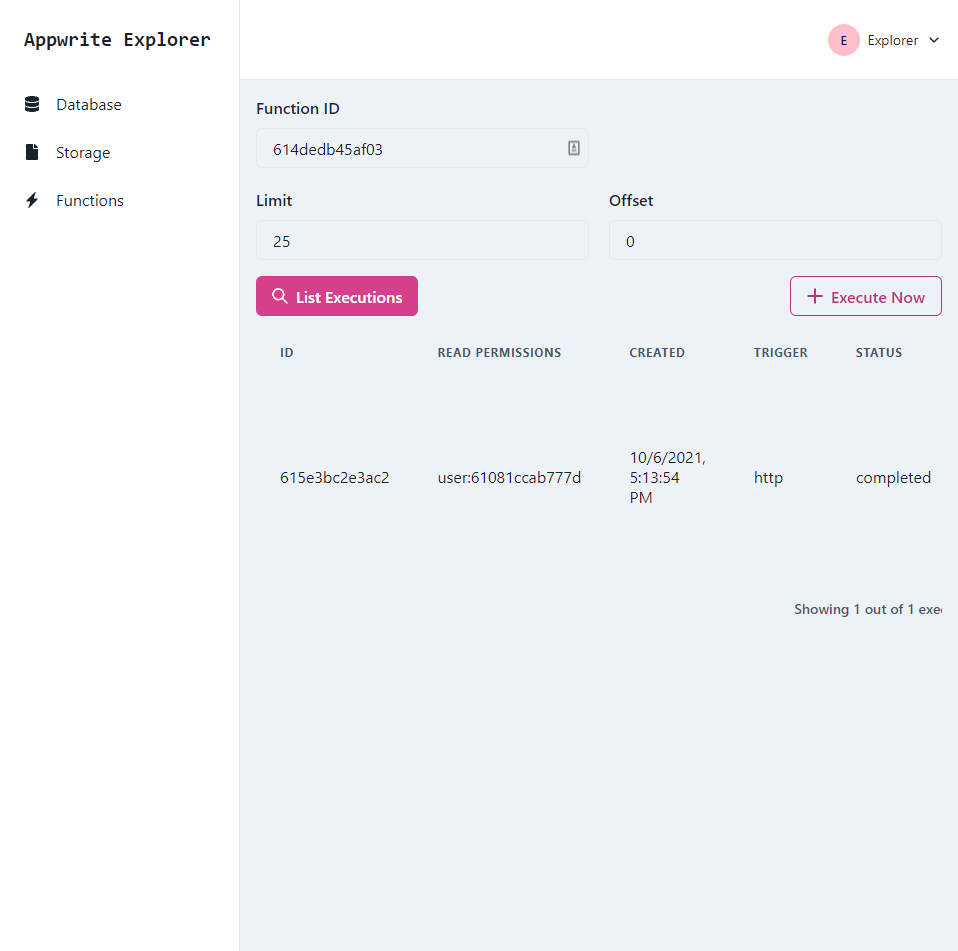
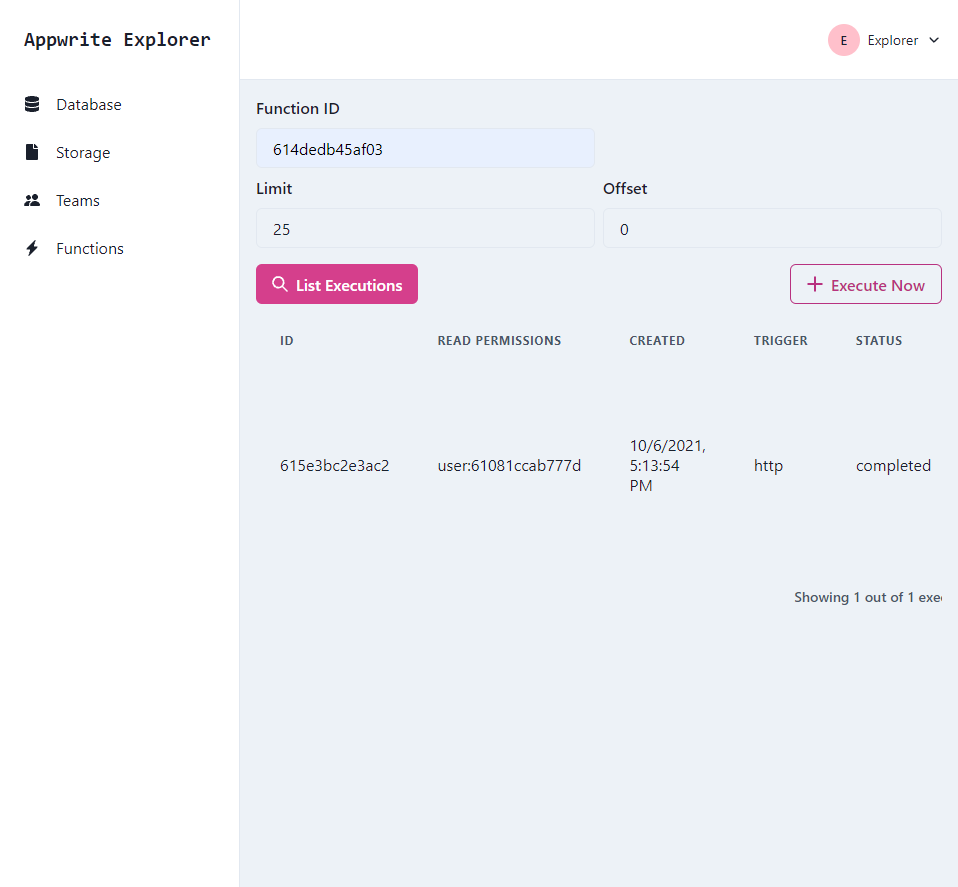
Update docs

diff --git a/README.md b/README.md
@@ -52,8 +52,10 @@ Appwrite Explorer is a tool that let's you explore different aspects of an Appwr
 
 ## Teams
 
-- [ ] List Teams
-- [ ] Create Team
+![Teams List](docs/teams-list.png)
+
+- [x] List Teams
+- [x] Create Team
 - [ ] Update Team
 - [ ] Delete Team
 - [ ] Create Team Membership
